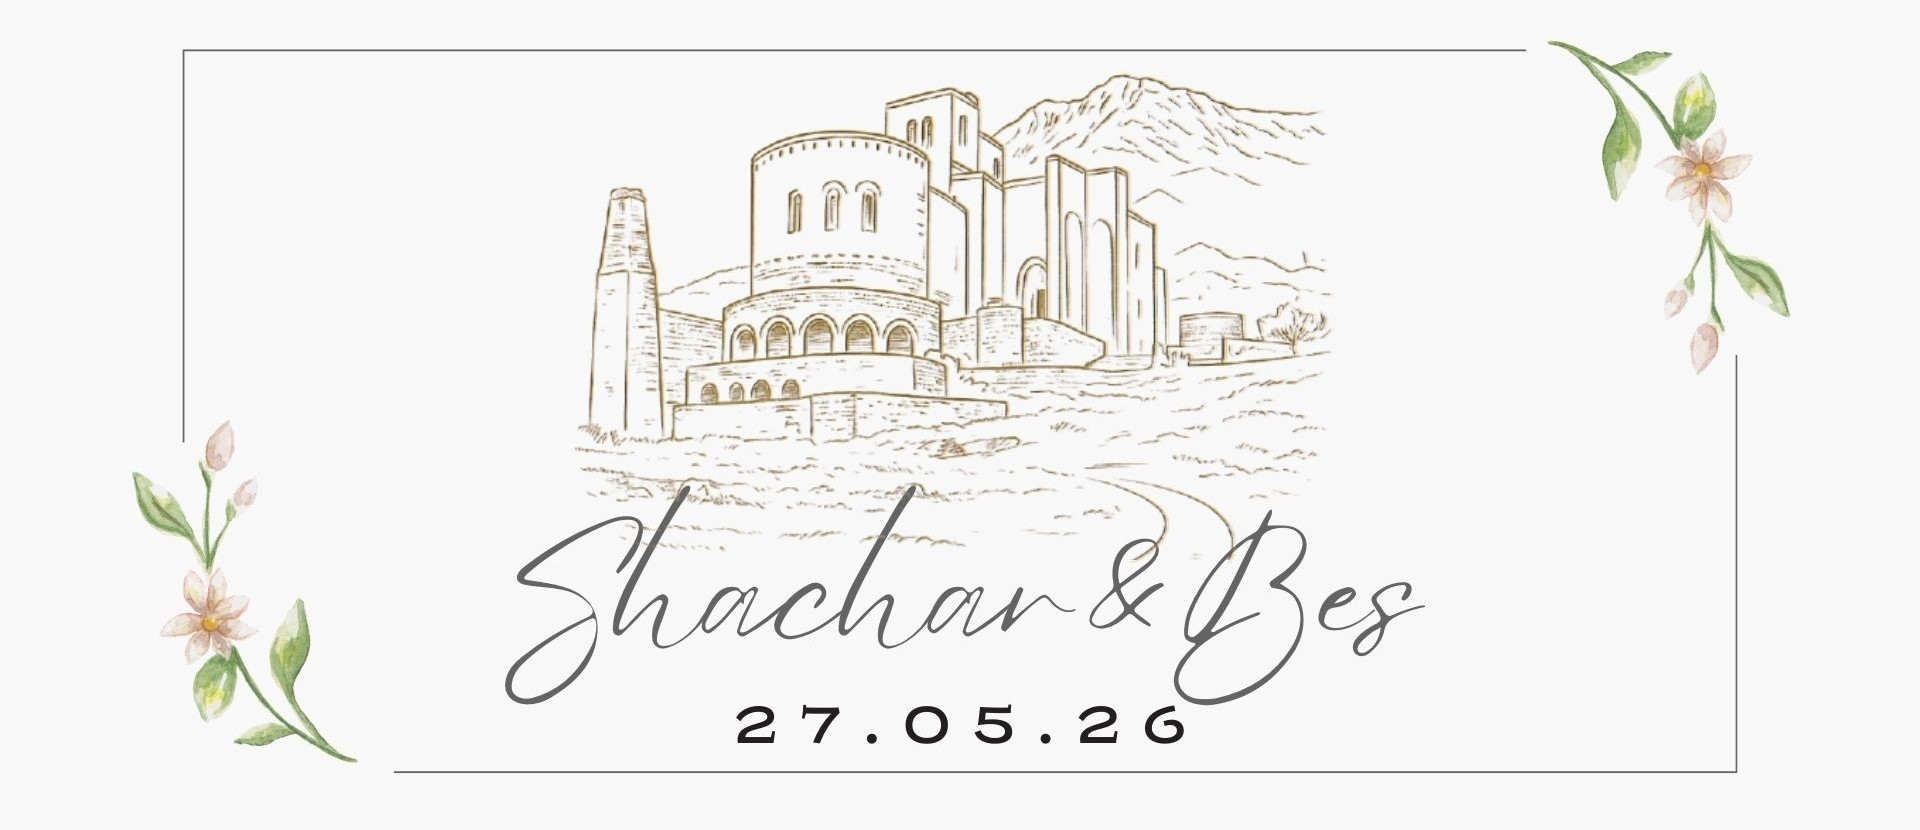
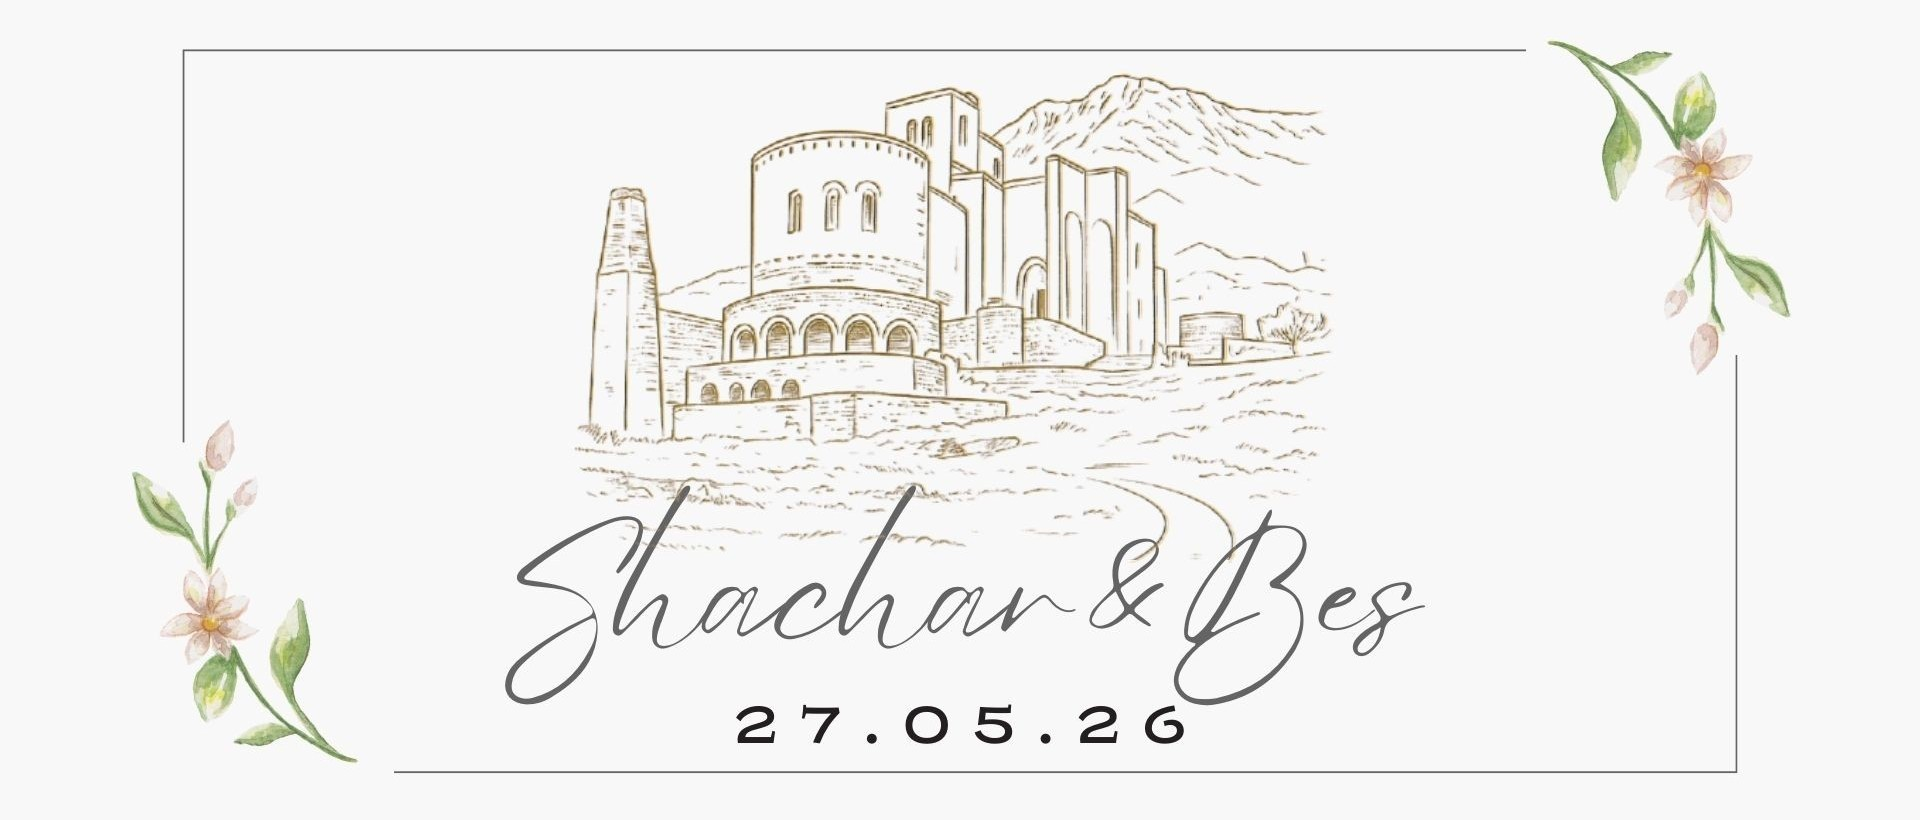
fixed spacing

diff --git a/index.html b/index.html
@@ -56,10 +56,6 @@
             content: none;
         }
 
-        .header-content {
-            display: none;
-        }
-
         .main-title {
             font-family: 'Dancing Script', cursive;
             font-size: 5rem;
@@ -118,7 +114,7 @@
             grid-template-columns: repeat(3, 1fr);
             gap: 30px;
             max-width: 800px;
-            margin: 50px auto 0;
+            margin: 20px auto 0;
 
 
         /* New: background and overlap for countdown */
@@ -189,7 +185,8 @@
 
         .nav {
             background: var(--white);
-            padding: 20px 0;
+            padding: 12px 0 12px 0;
+            min-height: 32px;
             position: sticky;
             top: 0;
             z-index: 100;
@@ -202,8 +199,8 @@
             display: flex;
             justify-content: center;
             flex-wrap: wrap;
-            gap: 40px;
-            padding: 0 20px;
+            gap: 36px;
+            padding: 0 10px 0 10px;
         }
 
         .nav-link {
@@ -607,11 +604,11 @@
 </head>
 <body>
     <header class="header">
-    <img src="./imgs/cover.jpg" alt="Cover" style="display:block;margin:0 auto;max-width:100%;height:auto;" />
+    <img src="./imgs/cover.jpg" alt="Cover" style="display:block;margin:0 auto;max-width:85%;height:auto;margin-bottom:-80px;" />
     </header>
 
     <section id="countdown" class="section">
-    <div class="countdown-container" style="margin-top: -80px;">
+    <div class="countdown-container" style="margin-top:0; margin-bottom:-40px;">
             <div class="countdown-card">
                 <span id="countdown-days" class="countdown-number">0</span>
                 <div class="countdown-label">Days</div>
@@ -634,18 +631,13 @@
                 <option value="en" lang="en">English</option>
                 <option value="he" lang="he">עברית</option>
             </select>
-            <a href="#location" class="nav-link" data-section="location">Wedding Details</a>
-            <a href="#rsvp" class="nav-link" data-section="rsvp">RSVP</a>
-            <a href="#wedding-photos" class="nav-link" data-section="wedding-photos">Wedding Photos</a>
-            <a href="#timer" class="nav-link" data-section="timer">Our Journey</a>
-            <a href="#video" class="nav-link" data-section="video">Proposal Video</a>
-            <a href="#faq" class="nav-link" data-section="faq">FAQ</a>
+            <span id="nav-links-placeholder"></span>
         </div>
     </nav>
 
 
     <section id="location" class="section location-section">
-        <div class="container">
+        <div class="container" style="margin-top: 150px;">
             <h2 class="section-title">Venue</h2>
             <div class="location-content">
                 <div class="location-text">
@@ -911,12 +903,25 @@
         document.querySelectorAll('a[href^="#"]').forEach(anchor => {
             anchor.addEventListener('click', function (e) {
                 e.preventDefault();
-                const target = document.querySelector(this.getAttribute('href'));
+                const href = this.getAttribute('href');
+                const target = document.querySelector(href);
                 if (target) {
-                    target.scrollIntoView({
-                        behavior: 'smooth',
-                        block: 'start'
-                    });
+                    // Special scroll for Wedding Details to hide cover photo
+                    if (href === '#location') {
+                        // Get the top of the section relative to the document
+                        const rect = target.getBoundingClientRect();
+                        const scrollTop = window.pageYOffset || document.documentElement.scrollTop;
+                        // Scroll so the section is at the very top
+                        window.scrollTo({
+                            top: rect.top + scrollTop,
+                            behavior: 'smooth'
+                        });
+                    } else {
+                        target.scrollIntoView({
+                            behavior: 'smooth',
+                            block: 'start'
+                        });
+                    }
                 }
             });
         });
@@ -993,7 +998,15 @@
         // Language toggle functionality
         const translations = {
             he: {
-                nav: ["פרטי החתונה", "אישור הגעה", "ספר אורחים", "תמונות מהחתונה", "המסע שלנו", "סרטון ההצעה", "שאלות נפוצות"],
+                // Hebrew: FAQ, Journey, Photos, Guestbook, RSVP, Details (RTL order)
+                nav: [
+                    { label: "פרטי החתונה", href: "#location" },
+                    { label: "אישור הגעה", href: "#rsvp" },
+                    { label: "ספר אורחים", href: "#guestbook" },
+                    { label: "תמונות מהחתונה", href: "#wedding-photos" },
+                    { label: "המסע שלנו", href: "#timer" },
+                    { label: "שאלות נפוצות", href: "#faq" }
+                ],
                 faqTitle: "שאלות נפוצות",
                 faqQuestions: [
                     "איזה אוכל יוגש?",
@@ -1034,7 +1047,14 @@
             },
 
             en: {
-                nav: ["Wedding Details", "RSVP", "Guestbook", "Wedding Photos", "Our Journey", "Proposal Video", "FAQ"],
+                nav: [
+                    { label: "FAQ", href: "#faq" },
+                    { label: "Our Journey", href: "#timer" },
+                    { label: "Wedding Photos", href: "#wedding-photos" }, 
+                    { label: "Guestbook", href: "#guestbook" },  
+                    { label: "RSVP", href: "#rsvp" },
+                    { label: "Wedding Details", href: "#location" }
+                ],
                 faqTitle: "FAQ",
                 faqQuestions: [
                     "What type of food will be served?",
@@ -1074,7 +1094,14 @@
                 labels: ["Years", "Months", "Days", "Total Days"]
             },
             al: {
-                nav: ["Detajet e Dasmës", "RSVP", "Libri i Miqve", "Fotot e Dasmës", "Udhëtimi Ynë", "Video e Propozimit", "Pyetje"],
+                nav: [
+                    { label: "Pyetje", href: "#faq" },
+                    { label: "Udhëtimi Ynë", href: "#timer" },
+                    { label: "Fotot e Dasmës", href: "#wedding-photos" },  
+                    { label: "Libri i Miqve", href: "#guestbook" },
+                    { label: "RSVP", href: "#rsvp" },  
+                    { label: "Detajet e Dasmës", href: "#location" }     
+                ],
                 faqTitle: "Pyetje",
                 faqQuestions: [
                     "Çfarë ushqimi do të shërbehet?",
@@ -1119,18 +1146,43 @@
 
         function applyTranslations(lang) {
             const t = translations[lang];
-            const navLinks = Array.from(document.querySelectorAll('.nav-link'));
-            // Always keep nav links in the correct DOM order and update their text only
-            navLinks.forEach((el, i) => {
-                el.textContent = t.nav[i];
-            });
             const navContainer = document.querySelector('.nav-container');
-            if (lang === 'he') {
-                navLinks.reverse().forEach(link => navContainer.appendChild(link));
-            } else {
-                // Restore original order: select is always first, then nav-links in original order
-                const select = navContainer.querySelector('#lang-select');
-            }
+            // Remove all nav links
+            document.querySelectorAll('.nav-link').forEach(link => link.remove());
+            // Insert new nav links in correct order and with correct hrefs
+            const placeholder = document.getElementById('nav-links-placeholder');
+            t.nav.forEach(item => {
+                const a = document.createElement('a');
+                a.className = 'nav-link';
+                a.setAttribute('data-section', item.href.replace('#',''));
+                a.href = item.href;
+                a.textContent = item.label;
+                placeholder.parentNode.insertBefore(a, placeholder.nextSibling);
+            });
+            // Re-attach click listeners after nav links are rebuilt
+            document.querySelectorAll('a[href^="#"]').forEach(anchor => {
+                anchor.addEventListener('click', function (e) {
+                    e.preventDefault();
+                    const href = this.getAttribute('href');
+                    const target = document.querySelector(href);
+                    if (target) {
+                        // Special scroll for Wedding Details to hide cover photo
+                        if (href === '#location') {
+                            const rect = target.getBoundingClientRect();
+                            const scrollTop = window.pageYOffset || document.documentElement.scrollTop;
+                            window.scrollTo({
+                                top: rect.top + scrollTop,
+                                behavior: 'smooth'
+                            });
+                        } else {
+                            target.scrollIntoView({
+                                behavior: 'smooth',
+                                block: 'start'
+                            });
+                        }
+                    }
+                });
+            });
             // Guestbook section translation
             if (document.querySelector('#guestbook')) {
                 document.querySelector('#guestbook .section-title').textContent = t.guestbookTitle || 'Guestbook';
